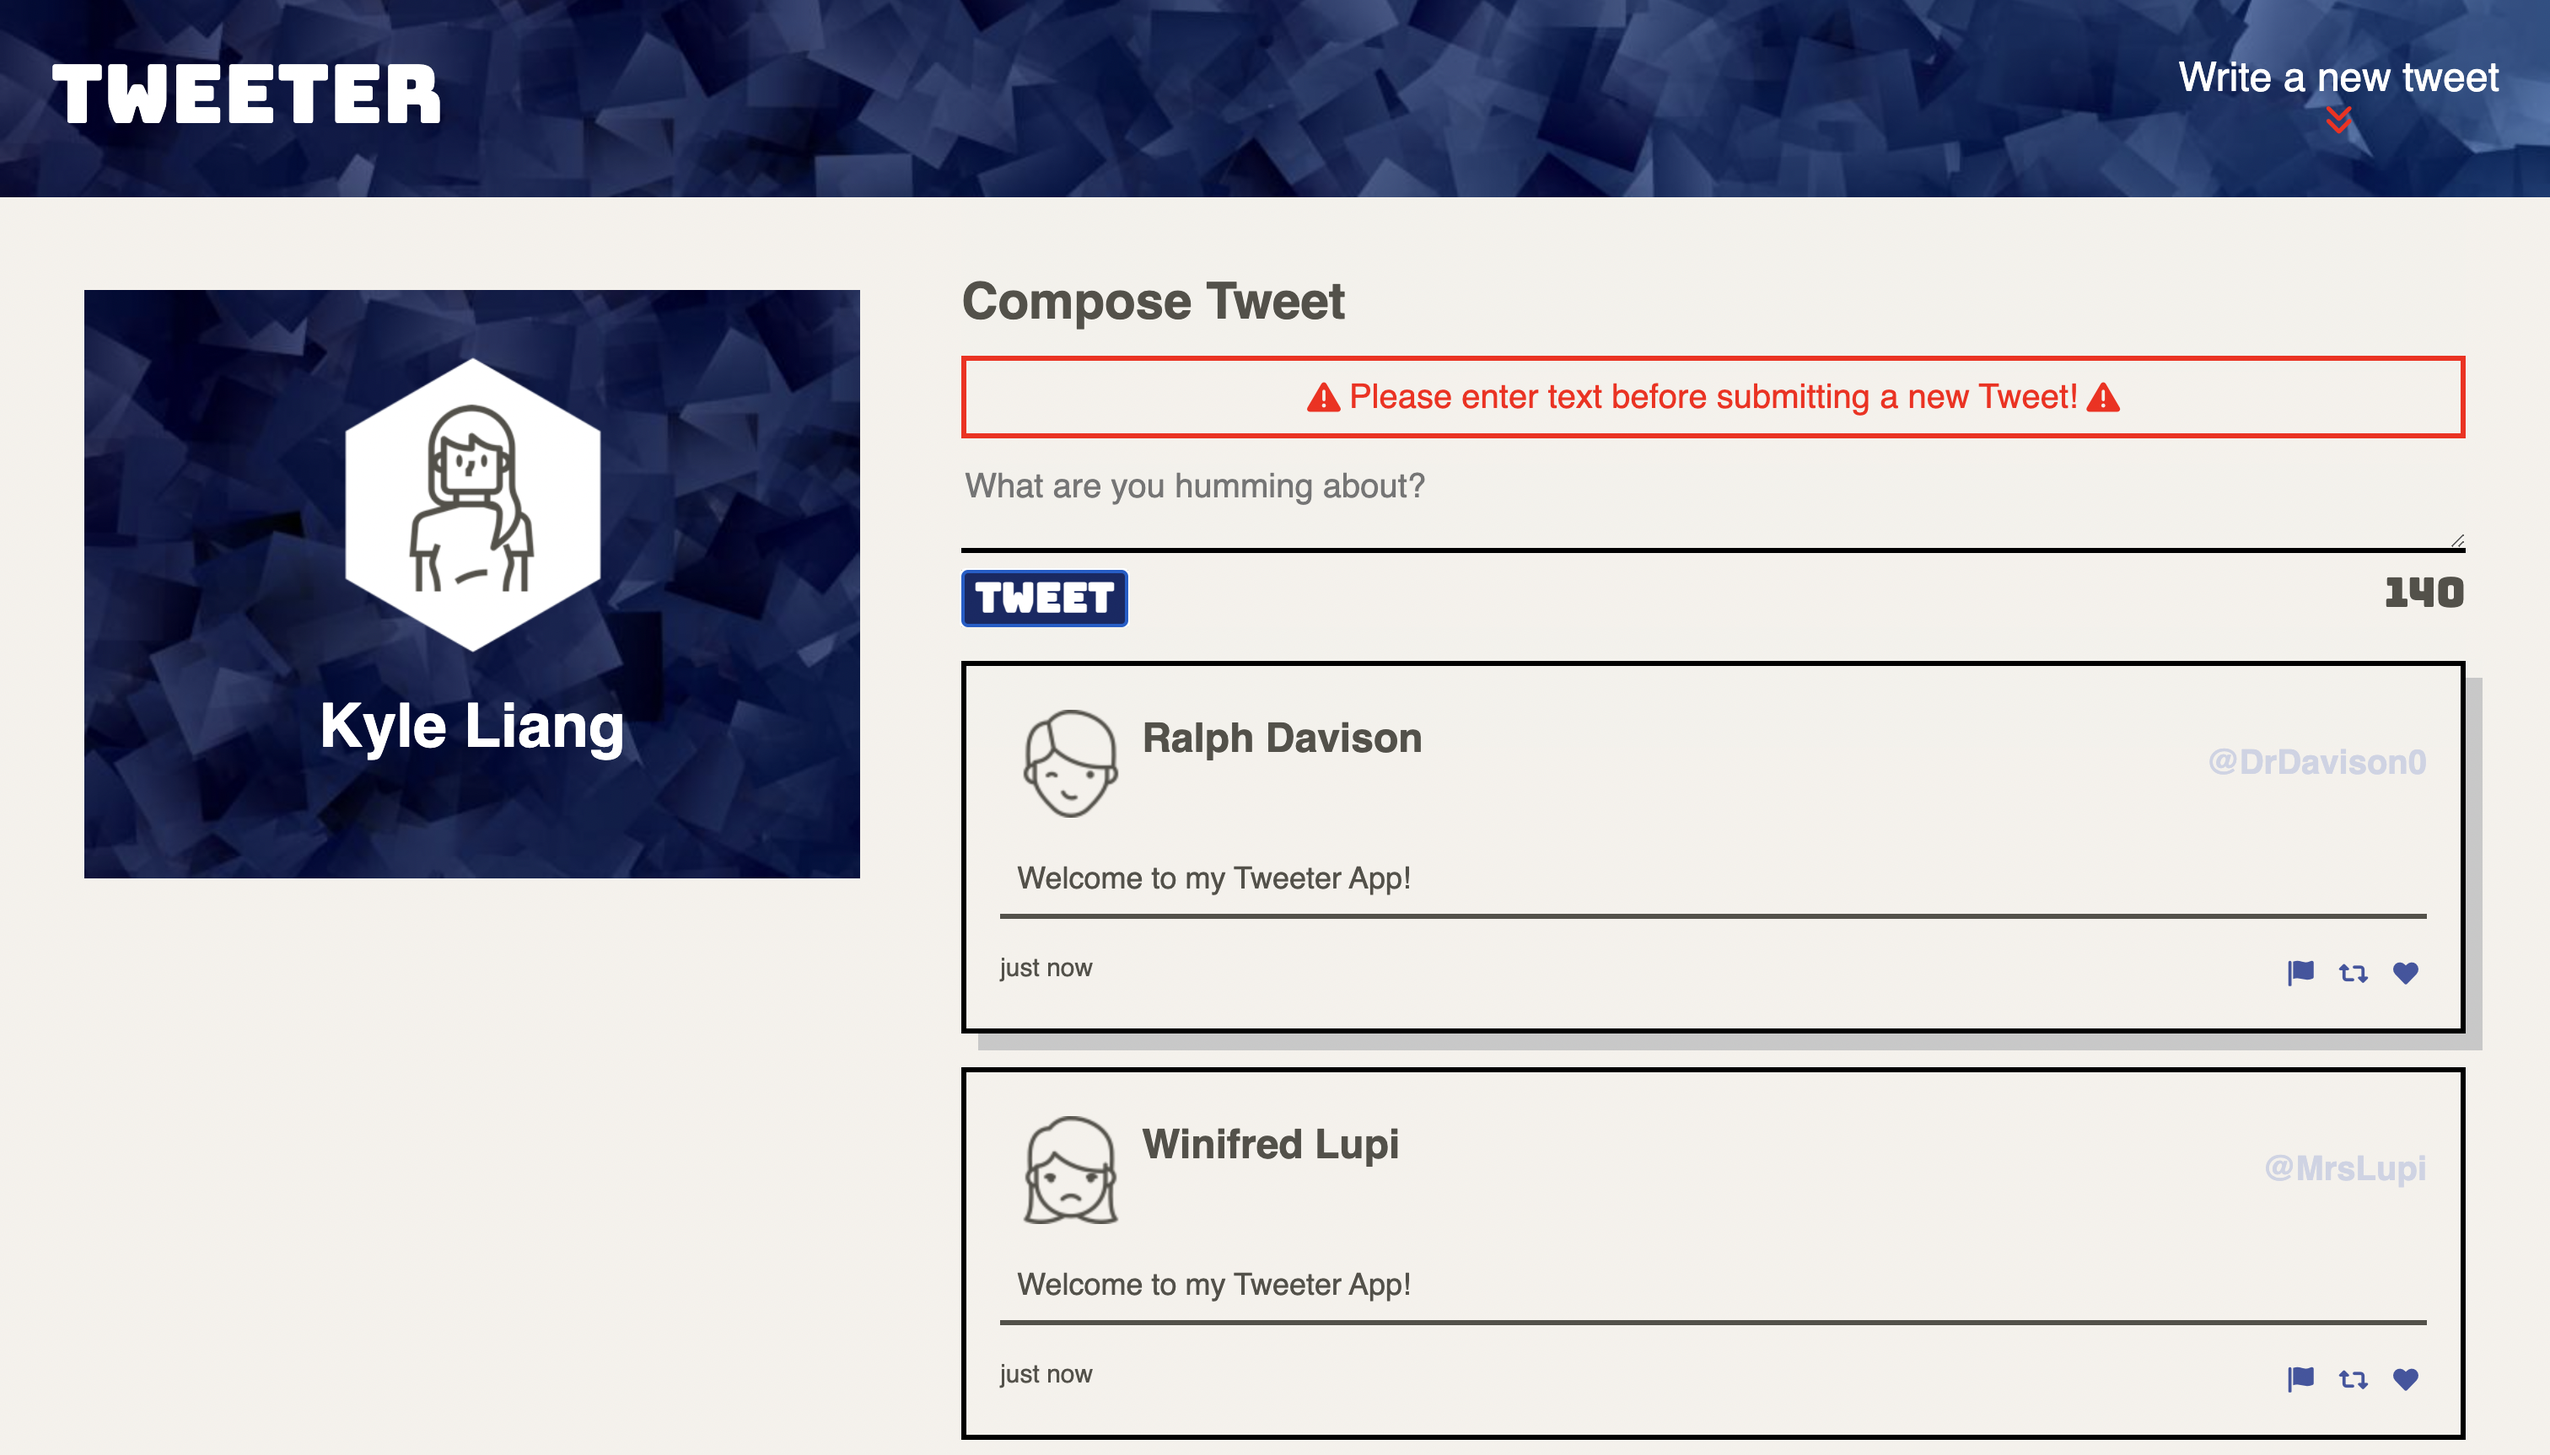
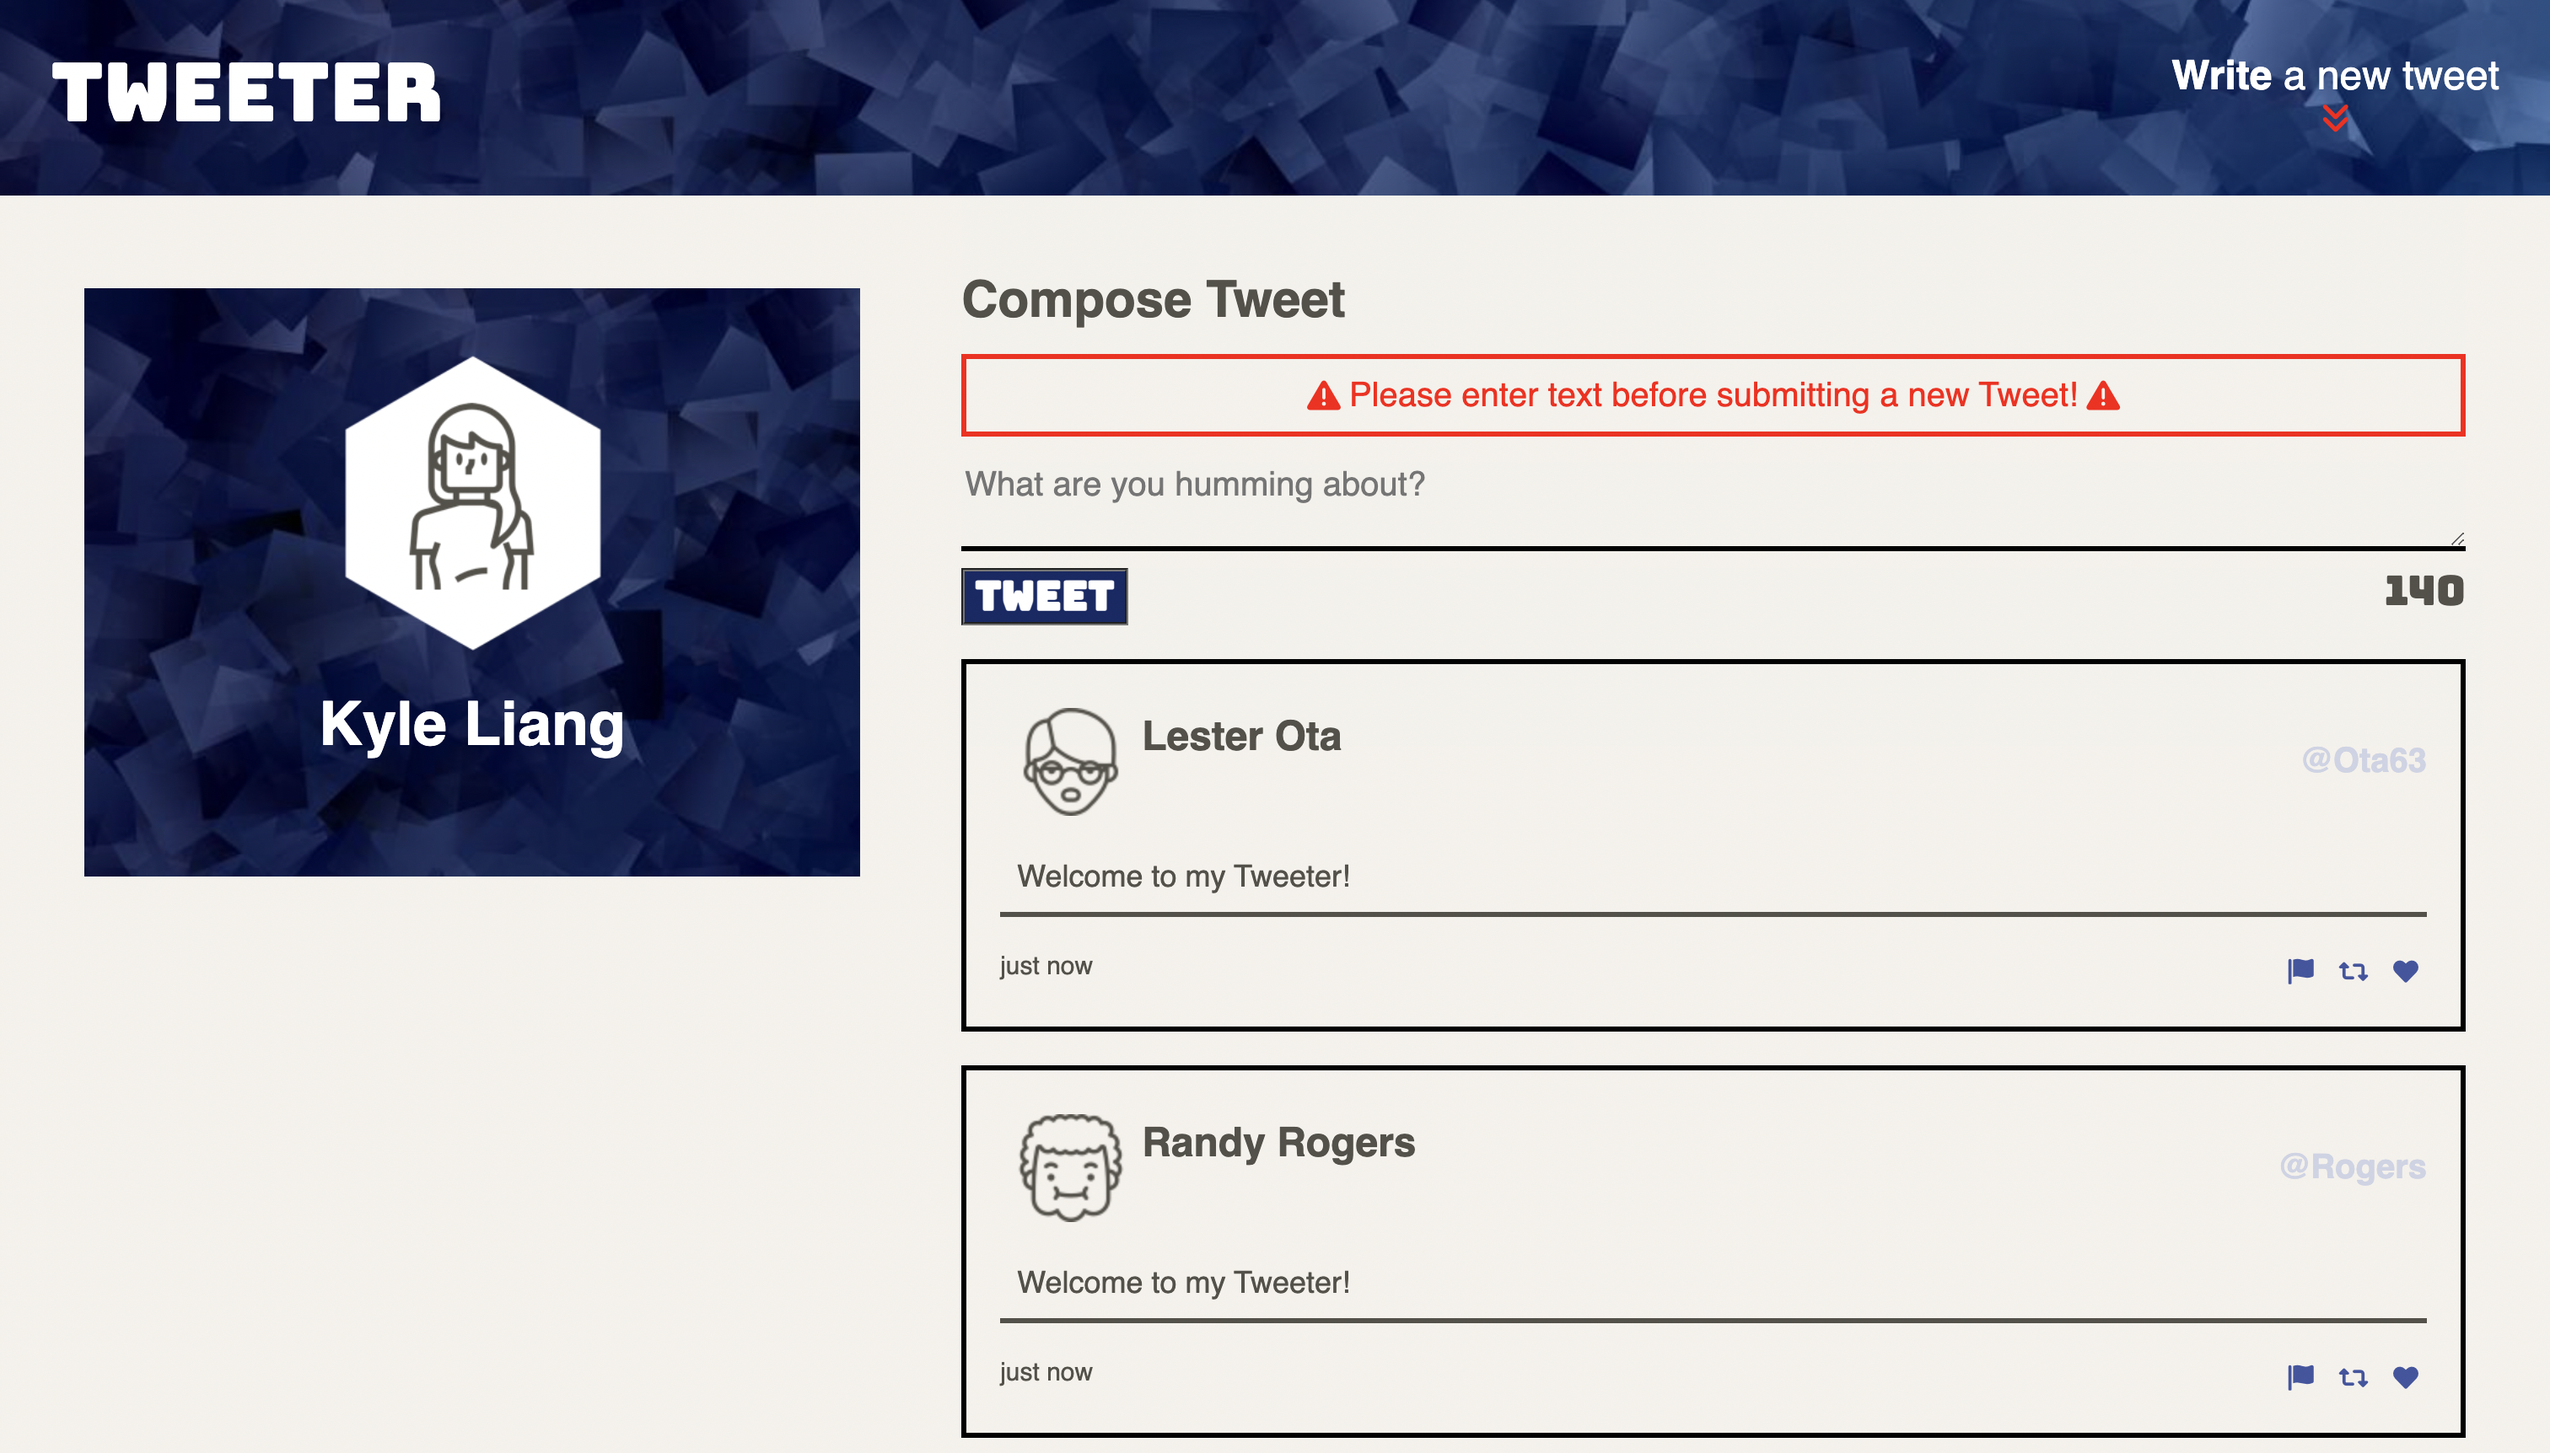
Fix styling for text and update screenshots

diff --git a/public/index.html b/public/index.html
@@ -45,10 +45,10 @@
     <!-- Top navigation bar (fixed) -->
     <nav>
       <span class="logo">Tweeter</span>
-      <span class="write-tweet">
-        <span class="write-new-tweet">Write a new tweet</span>
+      <div class="write-tweet">
+        <span class="write-new-tweet"><strong>Write</strong> a new tweet</span>
       <i class="fas fa-angle-double-down" style= "color: red"></i>
-    </span>
+      </div>
     </nav>
 
     <!-- Header-->

diff --git a/public/styles/nav.css b/public/styles/nav.css
@@ -22,7 +22,7 @@ nav {
   flex-direction: column;
 }
 
-span.write-tweet {
+div.write-tweet {
   display: flex;
   flex-direction: column;
   justify-content: center;
@@ -31,13 +31,7 @@ span.write-tweet {
 
 span.write-new-tweet {
   font-size: 1rem;
-  display: flex;
   font-family: "Arial Bold", sans-serif;
-  flex-direction: column;
-  justify-content: center;
-  flex-wrap: wrap;
-  align-content: center;
-  align-items: center;
 }
 
 
